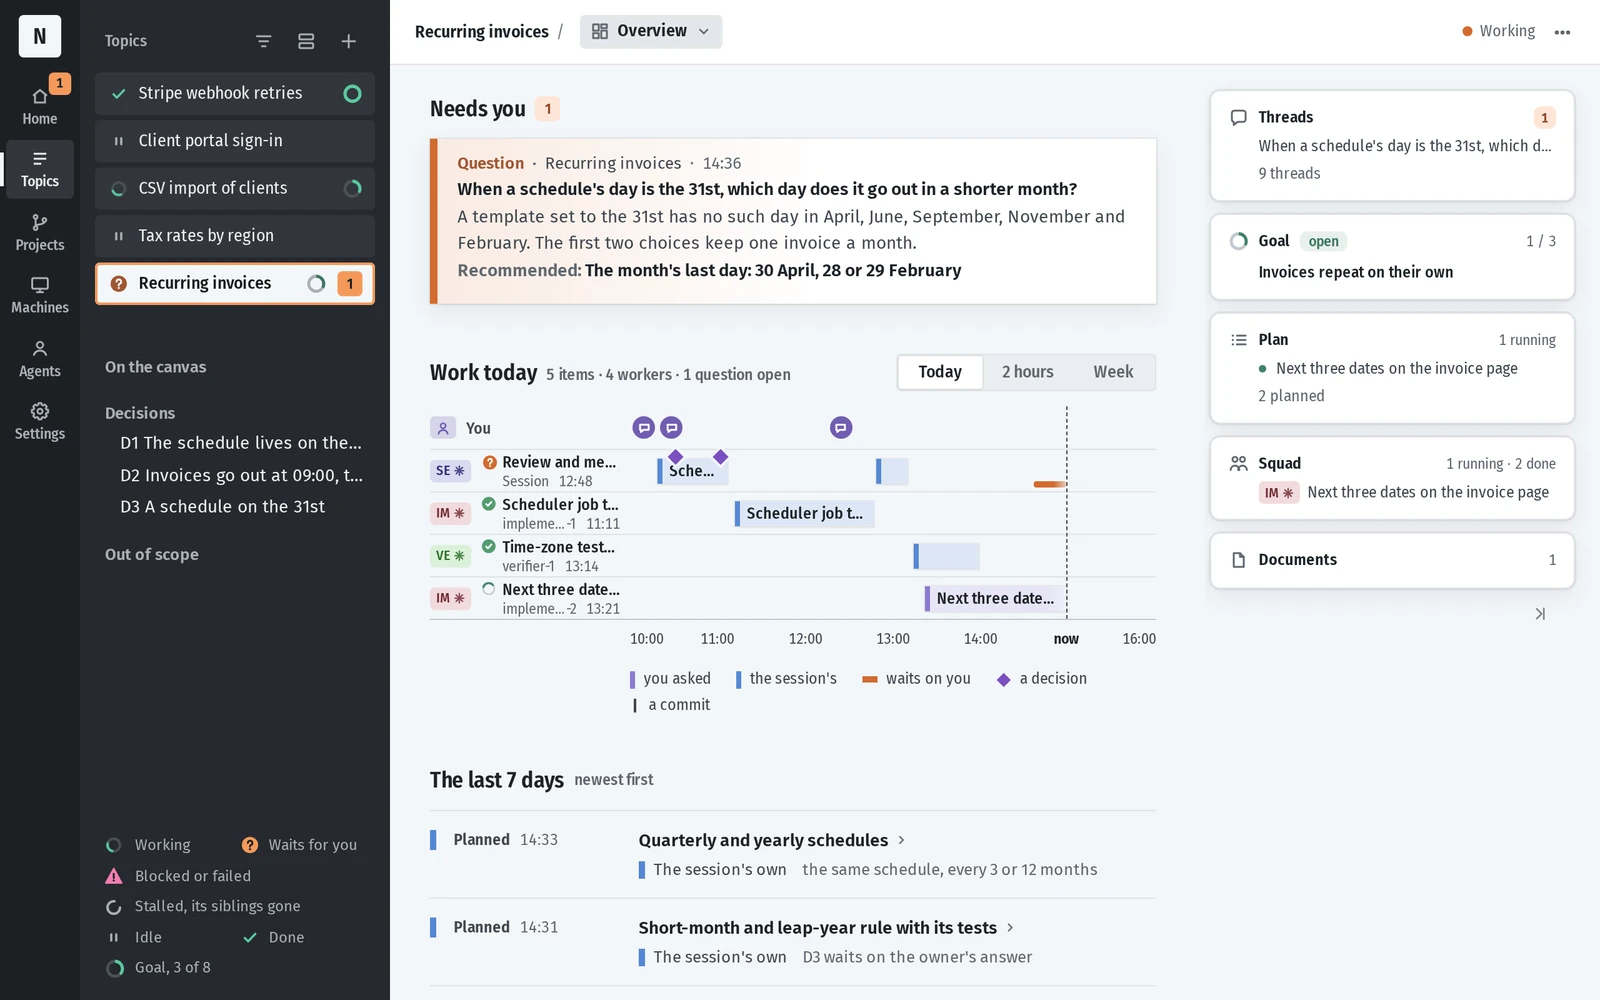
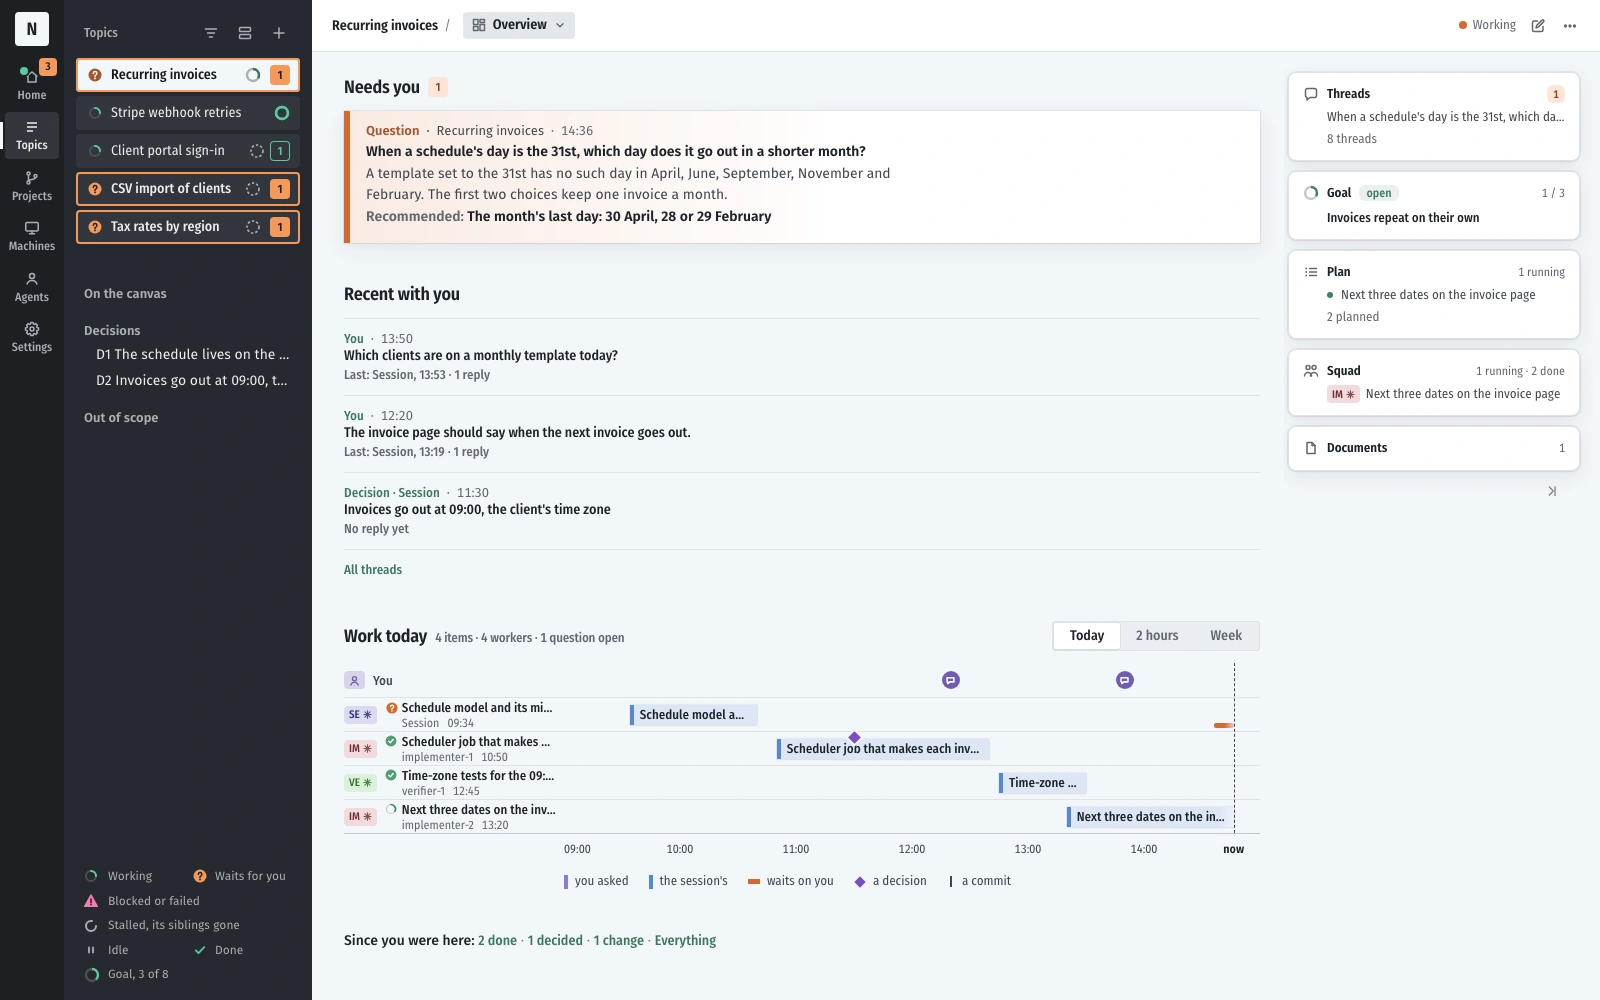
feat: the front page's screenshots show namp v0.6.0's Overview, with Recent with you and Since you were here, and the tour traces them, Back in, in seconds on the Since you were here line

diff --git a/src/lib/home/Tour.svelte b/src/lib/home/Tour.svelte
@@ -12,7 +12,7 @@
   /** @type {{ alt: string, shots: Record<string, { wide: { src: string, width: number, height: number } }>, call?: import("svelte").Snippet }} */
   let { alt, shots, call } = $props();
 
-  // Places on the Overview as the screenshot shows it from its 392nd px, its sidebar cut away: 1208 by 1000. A
+  // Places on the Overview as the screenshot shows it from its 312th px, its sidebar cut away: 1288 by 1000. A
   // gain's part (box), the rows in it that arrive (rows), and its cut for the narrow layout (cut, in the wide
   // screenshot's own px, or the phone's).
   const gains = [
@@ -20,37 +20,37 @@
       term: "One thing at a time",
       text: "The next decision a session needs, the most urgent first.",
       place: "Needs you",
-      box: [26, 84, 752, 232],
-      rows: [[38, 138, 727, 166]],
-      cut: { shot: "phone", x: 0, y: 0, w: 780, h: 590 },
+      box: [20, 64, 940, 191],
+      rows: [[32, 110, 916, 133]],
+      cut: { shot: "phone", x: 0, y: 0, w: 780, h: 884 },
     },
     {
       term: "Back in, in seconds",
       text: "Goal, decisions and what waits for you, on one page.",
-      place: "Work today, the topic's timeline",
-      box: [26, 344, 752, 380],
-      rows: [[38, 405, 727, 45], [38, 450, 727, 42], [38, 492, 727, 42], [38, 534, 727, 43], [38, 577, 727, 43]],
-      cut: { shot: "wide", x: 418, y: 344, w: 752, h: 308 },
+      place: "Since you were here, what the topic did while you were away",
+      box: [20, 918, 410, 46],
+      rows: [[32, 930, 386, 22]],
+      cut: { shot: "wide", x: 332, y: 913, w: 410, h: 56 },
     },
     {
       term: "Good practice, built in",
       text: "Agents for a role, work split across sessions, goals you check.",
       place: "the topic's goal, plan and squad",
-      box: [806, 202, 389, 329],
-      rows: [[818, 213, 365, 86], [818, 313, 365, 110], [818, 437, 365, 82]],
-      cut: { shot: "wide", x: 1198, y: 202, w: 389, h: 329 },
+      box: [964, 164, 316, 259],
+      rows: [[976, 171, 292, 69], [976, 250, 292, 89], [976, 349, 292, 67]],
+      cut: { shot: "wide", x: 1276, y: 164, w: 316, h: 259 },
     },
     {
       term: "Your machines, your work",
       text: "No namp service in between. Nothing leaves unless you choose.",
       place: "the whole Overview, which namp serves on your machine",
-      box: [0, 0, 1208, 1000],
+      box: [0, 0, 1288, 1000],
       rows: [],
-      cut: { shot: "wide", x: 392, y: 0, w: 1208, h: 1000 },
+      cut: { shot: "wide", x: 312, y: 0, w: 1288, h: 1000 },
     },
   ];
 
-  const W = 1208;
+  const W = 1288;
   const H = 1000;
   const EVERY = 4000;
 
@@ -76,11 +76,11 @@
   // A row of the Overview over itself: the wide screenshot, sized and placed so the box shows that row.
   /** @param {number[]} b */
   const row = ([x, y, w, h]) =>
-    `${at([x, y, w, h])};--size:${(1600 / w) * 100}% auto;--pos:${((x + 392) / (1600 - w)) * 100}% ${(y / (1000 - h)) * 100}%`;
-  // A cut of the app for the narrow layout, in its screenshot's own px: the wide one 1600 by 1000, the phone's 780 by 975.
+    `${at([x, y, w, h])};--size:${(1600 / w) * 100}% auto;--pos:${((x + 312) / (1600 - w)) * 100}% ${(y / (1000 - h)) * 100}%`;
+  // A cut of the app for the narrow layout, in its screenshot's own px: the wide one 1600 by 1000, the phone's 780 by 1688.
   /** @param {{ shot: string, x: number, y: number, w: number, h: number }} c */
   function cut({ shot, x, y, w, h }) {
-    const [sw, sh] = shot === "phone" ? [780, 975] : [1600, 1000];
+    const [sw, sh] = shot === "phone" ? [780, 1688] : [1600, 1000];
     const pos = (o, s, d) => (s === d ? 0 : (o / (s - d)) * 100);
     return `aspect-ratio:${w}/${h};background-image:var(--${shot});background-size:${(sw / w) * 100}% auto;background-position:${pos(x, sw, w)}% ${pos(y, sh, h)}%`;
   }
@@ -322,14 +322,14 @@
     white-space: nowrap;
   }
 
-  /* The Overview: the screenshot from its 392nd px, as tall as the screen's padding leaves, on the ground's
+  /* The Overview: the screenshot from its 312th px, as tall as the screen's padding leaves, on the ground's
      hairline and corners. */
   .over {
     grid-column: 6 / -1;
     justify-self: end;
     position: relative;
-    width: min(100%, (100svh - 2 * clamp(var(--sp-10), 7svh, 80px)) * 1208 / 1000);
-    aspect-ratio: 1208 / 1000;
+    width: min(100%, (100svh - 2 * clamp(var(--sp-10), 7svh, 80px)) * 1288 / 1000);
+    aspect-ratio: 1288 / 1000;
   }
 
   .frame {
@@ -342,10 +342,10 @@
 
   .frame img {
     display: block;
-    width: calc(100% * 1600 / 1208);
+    width: calc(100% * 1600 / 1288);
     max-width: none;
     height: auto;
-    margin-left: calc(-100% * 392 / 1208);
+    margin-left: calc(-100% * 312 / 1288);
   }
 
   .marks,

diff --git a/src/routes/+page.svelte b/src/routes/+page.svelte
@@ -6,11 +6,11 @@
   import Tour from "#lib/home/Tour.svelte";
   import { copyText } from "#lib/clipboard.js";
 
-  // namp's screenshots, from a trial server of namp at v0.5.0's tag, whose interface v0.5.1 ships unchanged, by
-  // theme: the wide one, a topic's Overview, under the hero and whole on the second screen; the phone's, the
-  // question answered in its thread, among the second screen's cuts on a narrow one.
+  // namp's screenshots, from a trial server of namp v0.6.0, by theme: the wide one, a topic's Overview, under the
+  // hero and whole on the second screen; the phone's, on an iPhone, the question opened as a layer from a thread
+  // that links it, among the second screen's cuts on a narrow one.
   const alt =
-    "A topic's Overview in namp: under Needs you its session asks which day an invoice set for the 31st goes out in a shorter month, and recommends the month's last day; today's timeline shows the session and three sibling sessions at work; the lane holds the topic's threads, goal, plan, squad and documents.";
+    "A topic's Overview in namp: under Needs you its session asks which day an invoice set for the 31st goes out in a shorter month, and recommends the month's last day; under it Recent with you, the owner's latest threads with the session; today's timeline shows the session and three sibling sessions at work; Since you were here counts 2 items done, 1 decision and 1 change; the lane holds the topic's threads, goal, plan, squad and documents.";
 
   const shots = {
     dark: { wide: { src: "/shots/hero-wide-dark.webp", width: 1600, height: 1000 } },
@@ -435,26 +435,29 @@
     }
   }
 
-  /* The spot: as wide as the Overview's own Needs you, 727px of the screenshot from its 430th, and on it
+  /* The spot: as wide as the Overview's own Needs you, 916px of the screenshot from its 344th, and on it
      Needs you, on the ground, a margin of its own round it lit. Behind it the Overview from the same place:
-     past the sidebar, 392px in, and under its header, 70px down, as the 1208 by 930 it shows of it. It lies
+     past the sidebar, 312px in, and under its header, 52px down, as the 1288 by 948 it shows of it. It lies
      dimmed under namp's --dim, fading into the ground at its left and its bottom, and runs off the page's
-     right edge. */
+     right edge. A column narrower than 916 --u narrows the spot: the Overview behind it then takes the spot's
+     own scale, its px the spot's width in 916ths, so its Needs you stays under the spot's. */
   .spot {
+    container-type: inline-size;
     position: relative;
-    width: min(100%, calc(727 * var(--u)));
+    width: min(100%, calc(916 * var(--u)));
   }
 
   .backdrop {
+    --u: calc(100cqw / 916);
     position: absolute;
     z-index: -1;
-    top: calc(-20 * var(--u));
-    left: calc(-38 * var(--u));
-    width: calc(1208 * var(--u));
+    top: calc(-24 * var(--u));
+    left: calc(-32 * var(--u));
+    width: calc(1288 * var(--u));
     /* Down to a little under Needs you, never past the screen's floor: the spot is centred in it, so the floor
        is half a screen and half the spot below the spot's middle. */
-    height: min(calc(100% + 116 * var(--u)), calc(50svh + 50% + 20 * var(--u)));
-    background: var(--wide) calc(-392 * var(--u)) calc(-70 * var(--u)) / calc(1600 * var(--u)) auto no-repeat;
+    height: min(calc(100% + 116 * var(--u)), calc(50svh + 50% + 24 * var(--u)));
+    background: var(--wide) calc(-312 * var(--u)) calc(-52 * var(--u)) / calc(1600 * var(--u)) auto no-repeat;
     mask-image:
       linear-gradient(90deg, transparent, var(--mask) calc(160 * var(--u))),
       linear-gradient(transparent, var(--mask) calc(120 * var(--u)), var(--mask) calc(100% - 120 * var(--u)), transparent);
@@ -488,10 +491,10 @@
     z-index: -1;
     top: 100%;
     left: calc(-64 * var(--u));
-    right: calc(-40 * var(--u));
+    right: calc(-28 * var(--u));
     height: 100svh;
     background: var(--bg);
-    mask-image: linear-gradient(90deg, var(--mask) calc(100% - 40 * var(--u)), transparent);
+    mask-image: linear-gradient(90deg, var(--mask) calc(100% - 28 * var(--u)), transparent);
     pointer-events: none;
   }
 

diff --git a/tests/components/tour.test.js b/tests/components/tour.test.js
@@ -89,7 +89,7 @@ describe("the gains", () => {
     render(Tour, { alt: "namp's Overview", shots });
     await fireEvent.click(tabs()[3]);
     expect(document.querySelector(".where.on").textContent).toBe("localhost:4321");
-    expect(document.querySelector(".mark.on").getAttribute("width")).toBe(String(1208 - 2));
+    expect(document.querySelector(".mark.on").getAttribute("width")).toBe(String(1288 - 2));
   });
 });
 
